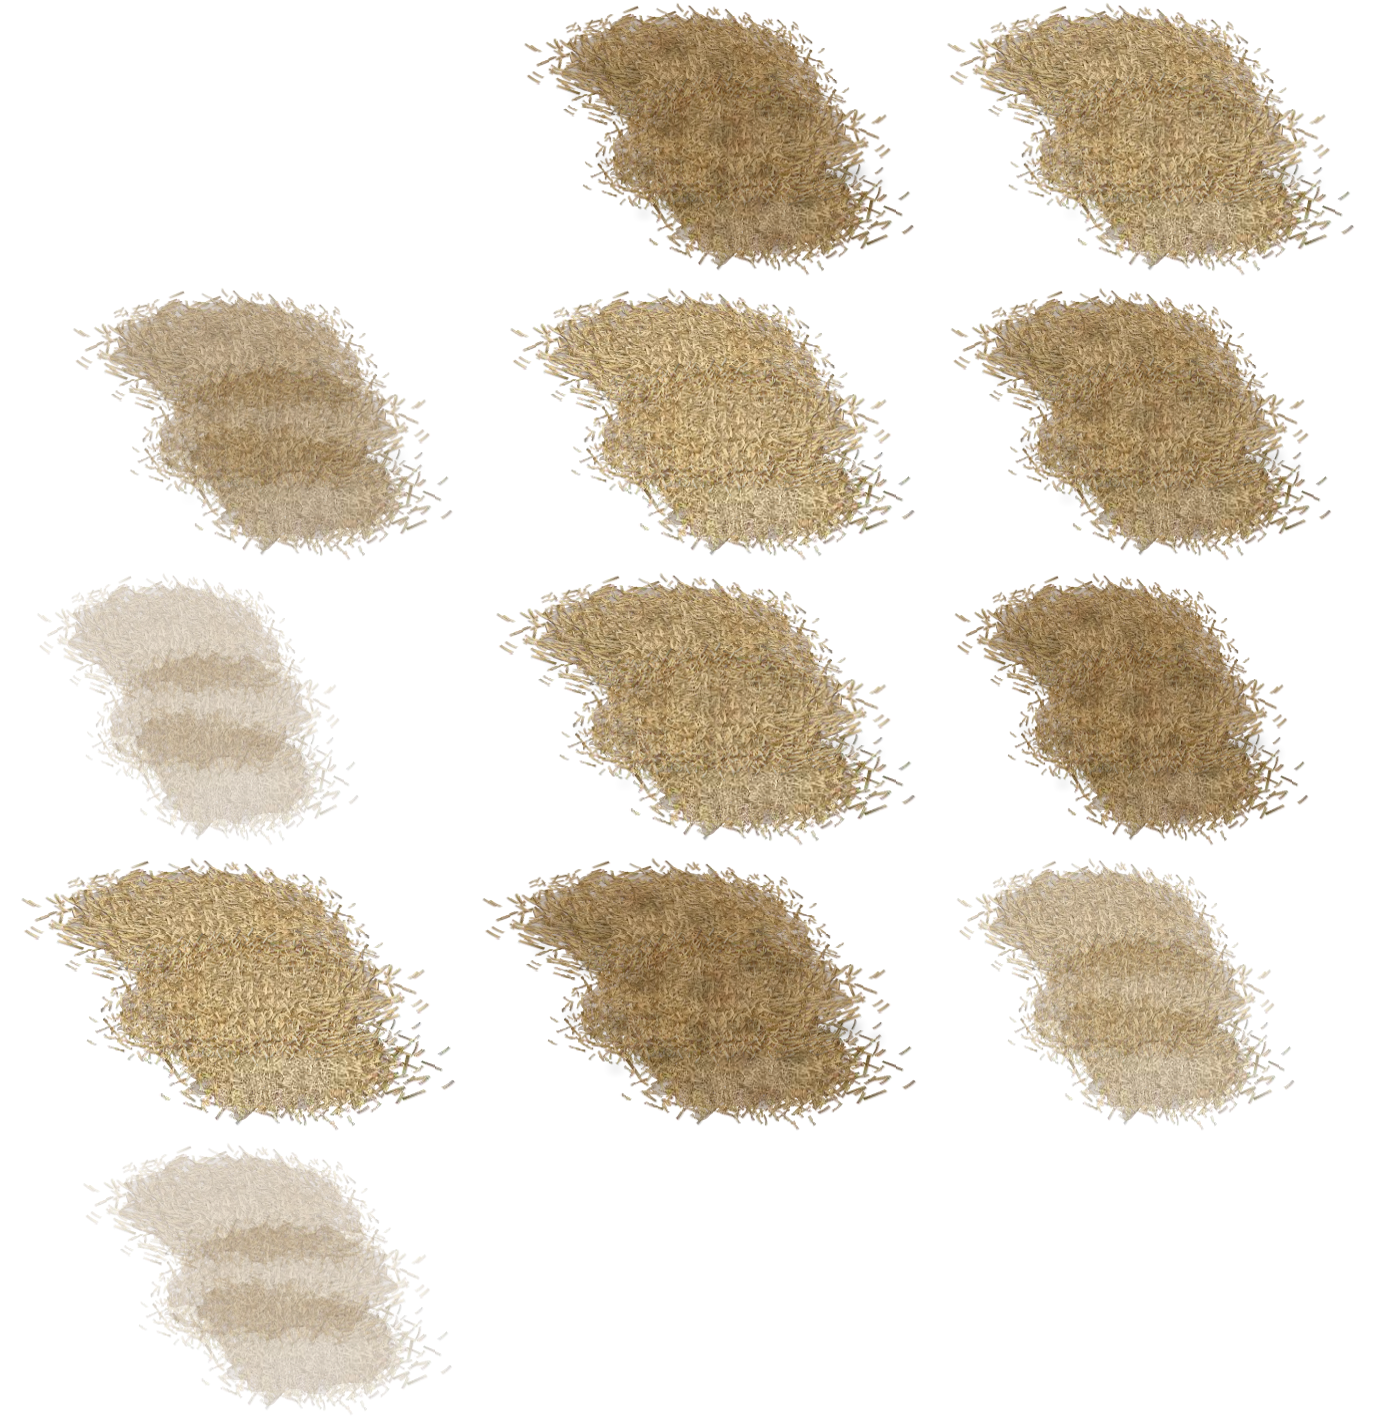
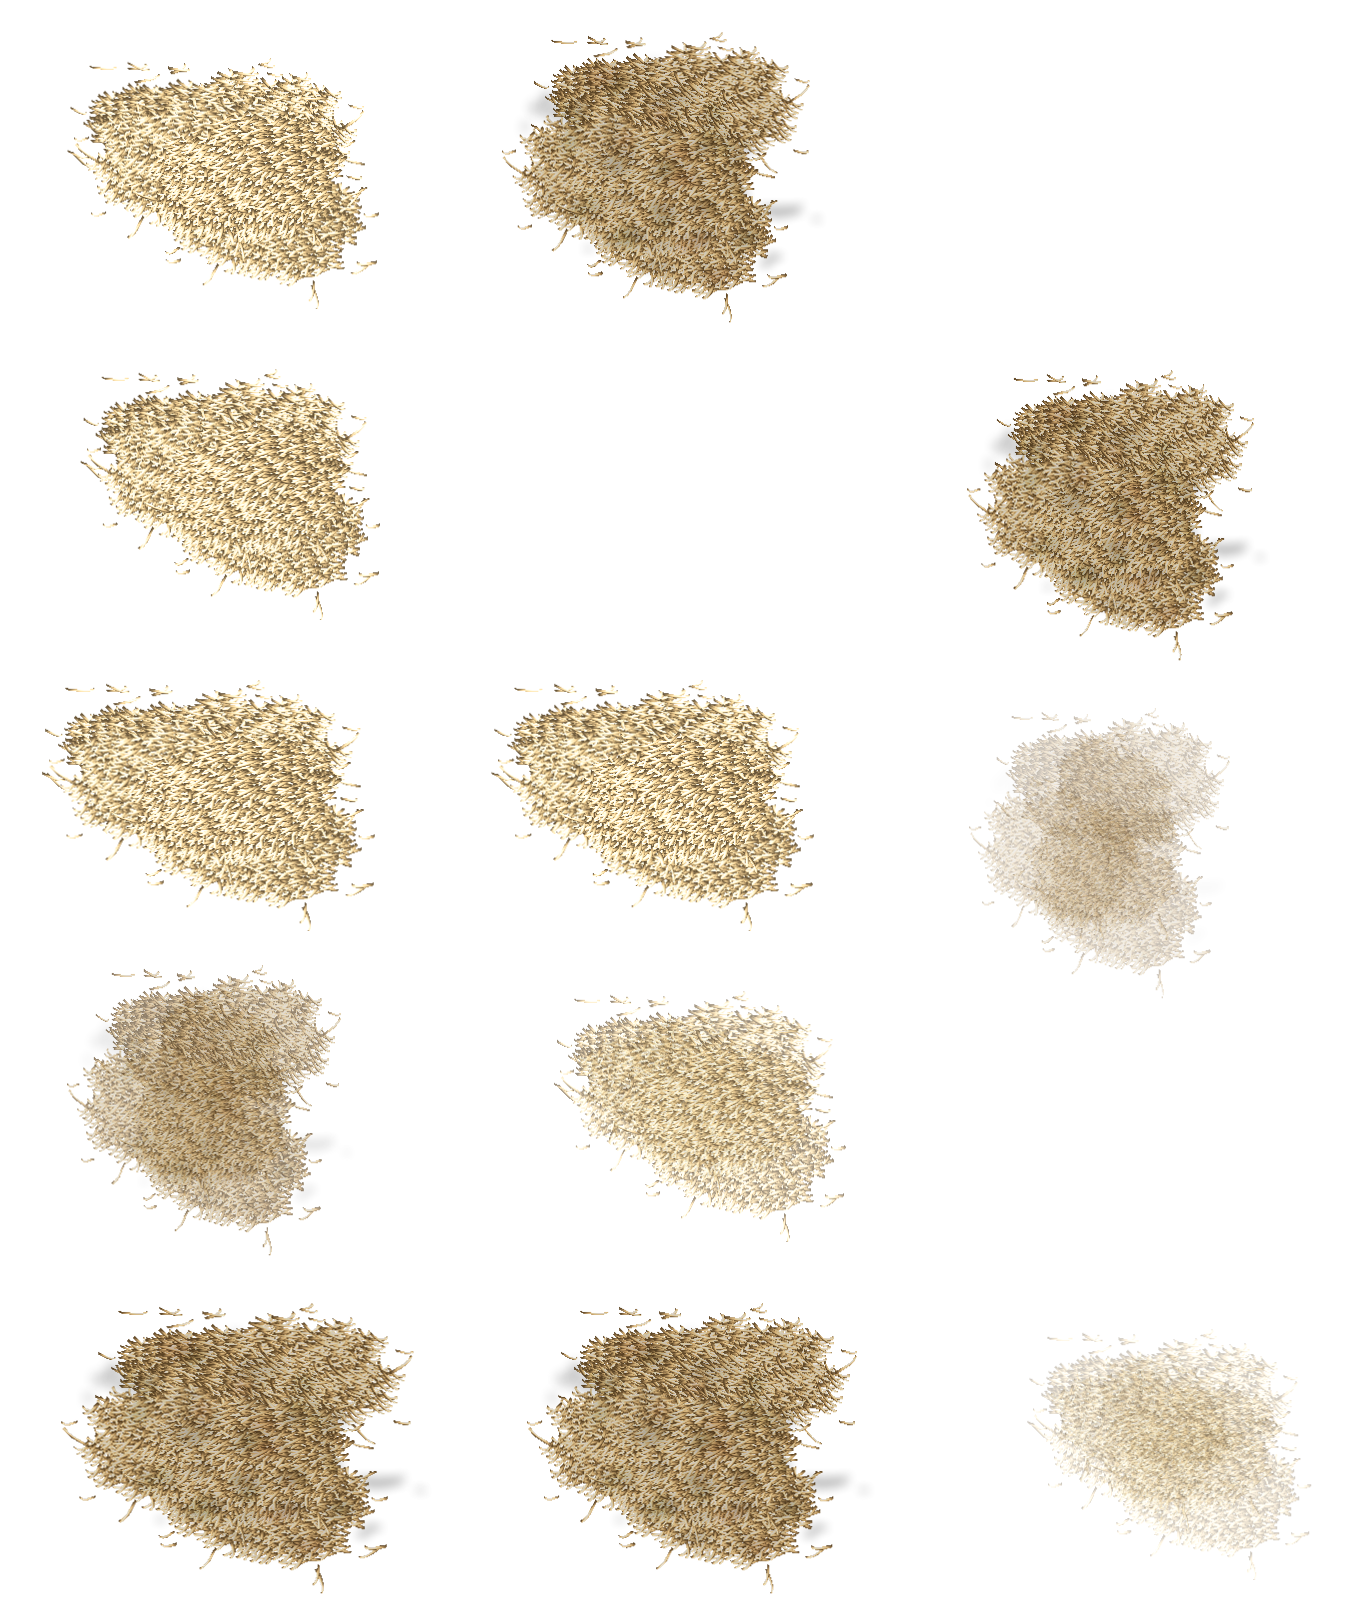
Add correct straw sprites, show bottle when drinking, and fix issues with missing/incorrectly named brush frames

diff --git a/public/phasergames/stablesrecreation/js/foalLandStable.js b/public/phasergames/stablesrecreation/js/foalLandStable.js
@@ -93,15 +93,18 @@ class FoalLandStable extends Phaser.Scene
                 ])
             const straw2Interactive = game.add.graphics().setInteractive(new Phaser.Geom.Rectangle(419, 309, 170, 170), Phaser.Geom.Rectangle.Contains);
             straw2Interactive.on('pointerdown', function (pointer) {cleanStraw(straw2, 'straw2_pickup', 'straw2_place')});
+
         const straw1 = game.add.sprite(351, 420, 'straw1', 'frame0000').setScale(0.65);
             game.stablesManager.addSpriteAnims(straw1, 'straw1_pickup', [
-                    'frame0000', 'frame0001', 'frame0002', 'frame0003', 'frame0004', 'frame0005', 'frame0006'
+                    //'frame0000', 'frame0001', 'frame0002', 'frame0003', 'frame0004', 'frame0005', 
+                    'frame0006'
                 ])
             game.stablesManager.addSpriteAnims(straw1, 'straw1_place', [
                     'frame0006', 'frame0007', 'frame0008', 'frame0009', 'frame0010', 'frame0011', 'frame0012'
                 ])
             const straw1Interactive = game.add.graphics().setInteractive(new Phaser.Geom.Rectangle(249, 309, 170, 170), Phaser.Geom.Rectangle.Contains);
             straw1Interactive.on('pointerdown', function (pointer) {cleanStraw(straw1, 'straw1_pickup', 'straw1_place')});
+
         const straw3 = game.add.sprite(643, 411, 'straw3', 'frame0000').setScale(0.75);
             game.stablesManager.addSpriteAnims(straw3, 'straw3_pickup', [
                     'frame0000', 'frame0001', 'frame0002', 'frame0003', 'frame0004', 'frame0005', 'frame0006'
@@ -326,7 +329,7 @@ class FoalLandStable extends Phaser.Scene
                 ])
             game.stablesManager.addSpriteAnims(brush, 'brush_use', [
                     'hold',
-                    'brush0000', 'brush0001', 'brush0002', 'brush0003', 'brush0004', 'brush0005', 'brush0006', 'brush0007', 'brush0008', 'brush0009',
+                    'brush0000', 'brush0001', 'brush0002', 'brush0003', 'brush0004', 'brush0005', 'brush0006', 'brush0007', 'brush0008', //'brush0009',
                     'hold'
                 ])
             game.stablesManager.addSpriteAnims(brush, 'brush_place', [
@@ -414,11 +417,13 @@ class FoalLandStable extends Phaser.Scene
             appleBin.on('pointerdown', function (pointer) { game.stablesManager.pointerdown(appleBin, game.HAND.apple, 'takeApple', 'takeApple') }); 
         
         // Bottle Bin
-        const bottleBin = game.add.sprite(810, 428, 'bottleBin', 'idle').setInteractive();
-            game.stablesManager.addSpriteAnims(bottleBin, 'takeBottle', ['empty'])
-            bottleBin.on('pointerover', function (pointer) { game.stablesManager.pointerover (bottleBin, game.hover1) });
-            bottleBin.on('pointerout', function (pointer) { bottleBin.setFrame('idle') });
-            bottleBin.on('pointerdown', function (pointer) { game.stablesManager.pointerdown(bottleBin, game.HAND.bottle, 'takeBottle', 'takeBottle') }); 
+        game.bottleBin = game.add.sprite(810, 428, 'bottleBin', 'idle').setInteractive();
+            game.stablesManager.addSpriteAnims(game.bottleBin, 'takeBottle', ['empty'])
+            game.bottleBin.on('pointerover', function (pointer) { game.stablesManager.pointerover (game.bottleBin, game.hover1) });
+            game.bottleBin.on('pointerout', function (pointer) { game.bottleBin.setFrame('idle') });
+            game.bottleBin.on('pointerdown', function (pointer) { game.stablesManager.pointerdown(game.bottleBin, game.HAND.bottle, 'takeBottle', 'takeBottle') }); 
+
+        game.floatingBottle = game.add.image(208, 255, 'bottle').setScale(.75).setAngle(90).setAlpha(0);
 
         game.troughMask = game.add.sprite(194, 415, 'trough_mask', 'trough_mask').setScale(1,1.1).setVisible(false);
             game.stablesManager.addSpriteAnims(game.troughMask, 'mask_fill_water', [
@@ -509,8 +514,16 @@ class FoalLandStable extends Phaser.Scene
                 });
             }
             else if (animation === game.HORSE_STATES.eatingFood) {
+                game.floatingBottle.setAlpha(1)
                 game.time.delayedCall(800, function () { game.stablesManager.horsePlayAnimation('eat_food') });
                 game.time.delayedCall(1000, function () { game.oatsEat.play() });
+                game.time.delayedCall(3000, function () { game.floatingBottle.setAlpha(.75) });
+                game.time.delayedCall(3100, function () { game.floatingBottle.setAlpha(.5) });
+                game.time.delayedCall(3200, function () { game.floatingBottle.setAlpha(.25) });
+                game.time.delayedCall(3300, function () { 
+                    game.floatingBottle.setAlpha(0) 
+                    game.bottleBin.setFrame("idle")
+                });
             }
             else if (animation === game.HORSE_STATES.eatingApple) {
                 game.appleMunch.play();
